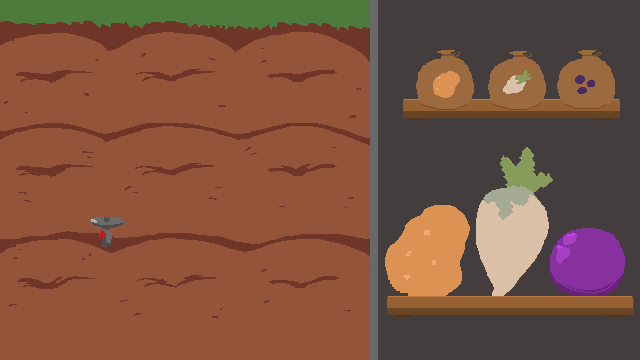
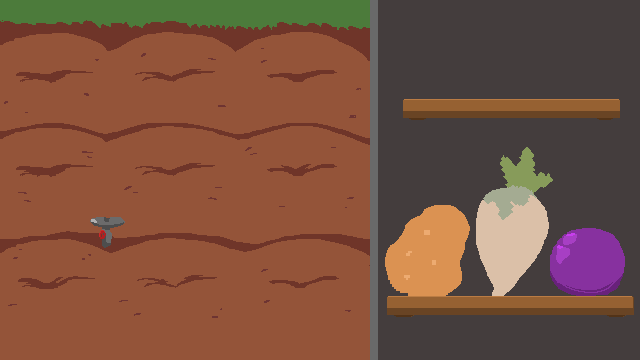
awd

Changed region(s): [[0.625, 0.1222, 0.9688, 0.3056]]

diff --git a/src/scenes/loadingscreen.py b/src/scenes/loadingscreen.py
@@ -51,29 +51,23 @@ class LoadingScreen:
             
             "bush_sprite_foraging.png": pygame.image.load("assets/images/bush_sprite_foraging.png").convert_alpha(),
             
-            # "potato_growing_seed.png": pygame.image.load("assets/images/AAAAAAAAAA.png"),
-            # "potato_growing_sprout.png": pygame.image.load("assets/images/AAAAAAAAAA.png"),
-            # "potato_growing_medium.png": pygame.image.load("assets/images/AAAAAAAAAA.png"),
-            # "potato_growing_grown.png": pygame.image.load("assets/images/AAAAAAAAAA.png"),
-            # "potato_seedbag.png": pygame.image.load("assets/images/AAAAAAAAAA.png"),
-            # "potato_bush.png": pygame.image.load("assets/images/AAAAAAAAAA.png"),
-            # "potato_icon.png": pygame.image.load("assets/images/AAAAAAAAAA.png"),
+            "potato_growing_sprout.png": pygame.image.load("assets/images/potato_growing_sprout.png"),
+            "potato_growing_medium.png": pygame.image.load("assets/images/potato_growing_medium.png"),
+            "potato_growing_grown.png": pygame.image.load("assets/images/potato_growing_grown.png"),
+            "potato_seedbag.png": pygame.image.load("assets/images/potato_seedbag.png"),
+            "potato_bush.png": pygame.image.load("assets/images/potato_bush.png"),
             
-            # "daikon_growing_seed.png": pygame.image.load("assets/images/AAAAAAAAAA.png"),
-            # "daikon_growing_sprout.png": pygame.image.load("assets/images/AAAAAAAAAA.png"),
-            # "daikon_growing_medium.png": pygame.image.load("assets/images/AAAAAAAAAA.png"),
-            # "daikon_growing_grown.png": pygame.image.load("assets/images/AAAAAAAAAA.png"),
-            # "daikon_seedbag.png": pygame.image.load("assets/images/AAAAAAAAAA.png"),
-            # "daikon_bush.png": pygame.image.load("assets/images/AAAAAAAAAA.png"),
-            # "daikon_icon.png": pygame.image.load("assets/images/AAAAAAAAAA.png"),
+            "daikon_growing_sprout.png": pygame.image.load("assets/images/daikon_growing_sprout.png"),
+            "daikon_growing_medium.png": pygame.image.load("assets/images/daikon_growing_medium.png"),
+            "daikon_growing_grown.png": pygame.image.load("assets/images/daikon_growing_grown.png"),
+            "daikon_seedbag.png": pygame.image.load("assets/images/daikon_seedbag.png"),
+            "daikon_bush.png": pygame.image.load("assets/images/daikon_bush.png"),
             
-            # "blueberry_growing_seed.png": pygame.image.load("assets/images/AAAAAAAAAA.png"),
-            # "blueberry_growing_sprout.png": pygame.image.load("assets/images/AAAAAAAAAA.png"),
-            # "blueberry_growing_medium.png": pygame.image.load("assets/images/AAAAAAAAAA.png"),
-            # "blueberry_growing_grown.png": pygame.image.load("assets/images/AAAAAAAAAA.png"),
-            # "blueberry_seedbag.png": pygame.image.load("assets/images/AAAAAAAAAA.png"),
-            # "blueberry_bush.png": pygame.image.load("assets/images/AAAAAAAAAA.png"),
-            # "blueberry_icon.png": pygame.image.load("assets/images/AAAAAAAAAA.png"),
+            "blueberry_growing_sprout.png": pygame.image.load("assets/images/blueberry_growing_sprout.png"),
+            "blueberry_growing_medium.png": pygame.image.load("assets/images/blueberry_growing_medium.png"),
+            "blueberry_growing_grown.png": pygame.image.load("assets/images/blueberry_growing_grown.png"),
+            "blueberry_seedbag.png": pygame.image.load("assets/images/blueberry_seedbag.png"),
+            "blueberry_bush.png": pygame.image.load("assets/images/blueberry_bush.png"),
             
 
             # "foraging_background.png": pygame.image.load("assets/images/foraging_background.png")

diff --git a/src/scenes/farmplot.py b/src/scenes/farmplot.py
@@ -20,13 +20,32 @@ class Farmplot:
 
     def onFrame(self, events):
         self.ctx.vscreen.blit(self.ctx.images["farmplot.png"])
-        # self.ctx.font.draw("7",30,50)
+
+        self.ctx.font.draw(str(self.ctx.player.inventory.potato_grown),415,240)
+        self.ctx.font.draw(str(self.ctx.player.inventory.daikon_grown),492,240)
+        self.ctx.font.draw(str(self.ctx.player.inventory.blueberry_grown),571,240)
+
+
 
     def alwaysTick(self, events):
-        pass
+        for e in events:
+            if e.type():
+                pass
     
-    def get_bag_mouse_over():
+    def get_bag_mouse_over(self):
+        mousepos = get_mouse_pos(self.ctx)
+        mx, my = mousepos.x, mousepos.y
+
+        if not (40 <= my <= 113):
+            return None
+
+        x_bounds = [(409, 473), (482, 548), (552, 616)]
         
+        for index, (low, high) in enumerate(x_bounds):
+            if low <= mx <= high:
+                return index  # 0, 1, eller 2 for the bag
+        
+        return None
 
     def get_tile_mouse_in(self):
         mousepos = get_mouse_pos(self.ctx)
@@ -46,6 +65,25 @@ class Farmplot:
         
         return None
 
-'''
+# class Tile:
+#     def __init__(self):
+#         contained = 
+#         self.image_sprout = image_sprout
+#         self.image_medium = image_medium
+#         self.image_grown = image_grown
 
-'''
+
+# class PotatoGrowing:
+    
+#     @staticmethod
+#     def draw_at():
+        
+    
+# class DaikonGrowing:
+    
+# class BlueberryGrowing:
+
+
+# '''
+
+# '''

diff --git a/src/Player.py b/src/Player.py
@@ -205,9 +205,12 @@ class Inventory:
         self.potato_seed = 0
         self.daikon_seed = 0
         self.blueberry_seed = 0
+
         self.potato_grown = 0
         self.daikon_grown = 0
         self.blueberry_grown = 0
+
+        self.rouble = 0
     
 class Health:
     def __init__(self):
@@ -217,6 +220,3 @@ class Health:
         self.health += amount
         if self.health <= 0:
             print("you dead !")
-
-    
-    
